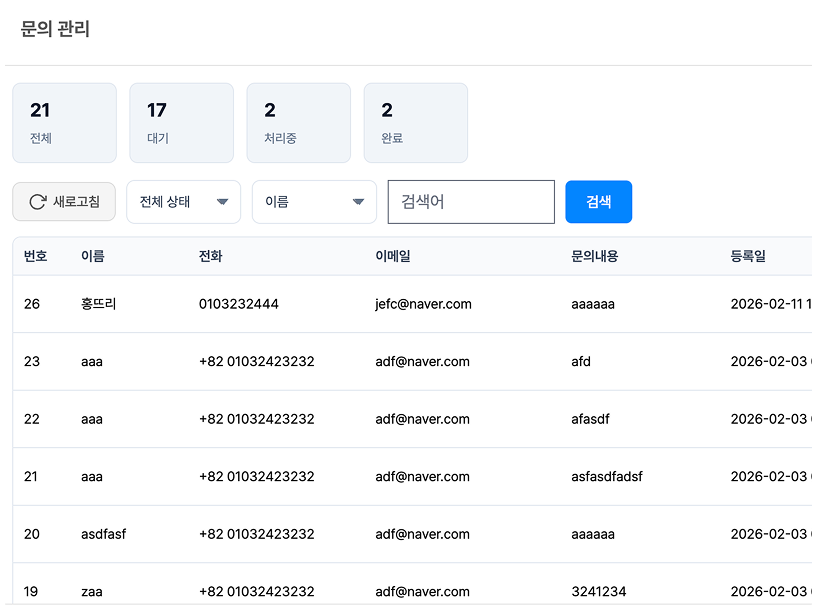
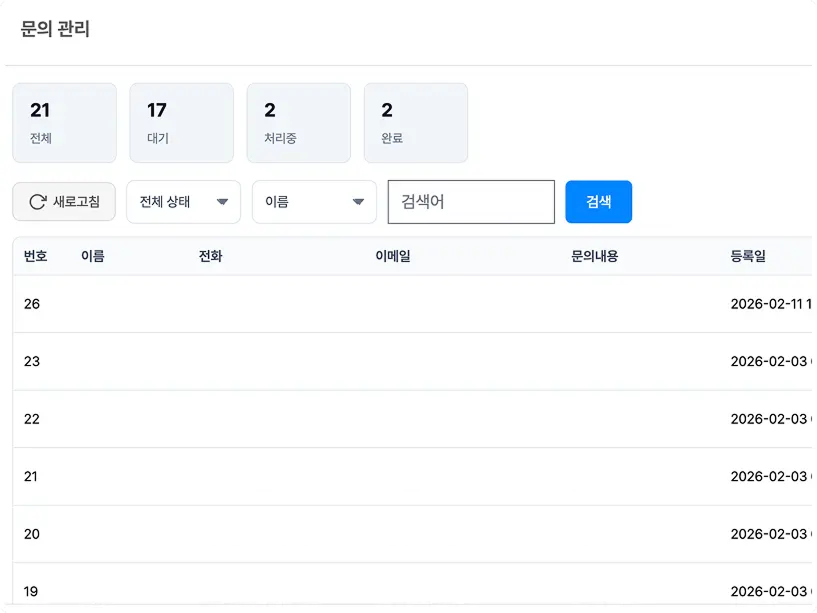
update

diff --git a/src/app/landing/page.js b/src/app/landing/page.js
@@ -930,7 +930,7 @@ export default function LandingPage() {
           <div className="xl:max-w-screen-2xl mx-auto px-6 md:px-8">
             <div className="grid grid-cols-1 md:grid-cols-2 xl:grid-cols-3 md:grid-rows-3 xl:grid-rows-1 gap-4 md:gap-5 mt-16 md:mt-24">
             <div
-              className="benefit-card h-[52rem] md:h-full xl:h-[56.25rem] rounded-xl bg-black bg-gradient-to-b from-transparent to-main-1/30 border border-white/50 md:row-span-2 px-8 py-10 md:px-12 md:py-16 fadeUp overflow-hidden"
+              className="benefit-card h-auto md:h-full xl:h-[56.25rem] rounded-xl bg-black bg-gradient-to-b from-transparent to-main-1/30 border border-white/50 md:row-span-2 px-8 py-10 md:px-12 md:py-16 fadeUp overflow-hidden"
               data-duration="0.8"
               data-delay="0.4"
               data-y="30"
@@ -943,7 +943,7 @@ export default function LandingPage() {
               <p className="text-[18px] md:text-[20px] text-white/70 mt-2.5">
                 아직도 텍스트 수정하나에 비용을 지불하시나요? 관리자 페이지에 제공된 디자인모드 기능으로 코딩 없이 간단하게 수정하세요.
               </p>
-              <div className="w-[80rem] absolute left-8 md:left-12 mt-4">
+              <div className="md:w-[80rem] w-full md:absolute left-8 md:left-12 mt-4">
                 <video
                   src={ASSET("textmodify.mp4")}
                   autoPlay
@@ -987,7 +987,7 @@ export default function LandingPage() {
               </div>
             </div>
             <div
-              className="benefit-card h-[52rem] md:h-[28.0625rem] xl:h-[56.25rem] rounded-xl bg-black bg-gradient-to-b from-transparent to-main-1/30 border border-white/50 md:col-span-2 xl:col-span-1 xl:row-span-1 px-8 py-10 md:px-12 md:py-16 fadeUp overflow-hidden"
+              className="benefit-card h-auto md:h-[28.0625rem] xl:h-[56.25rem] rounded-xl bg-black bg-gradient-to-b from-transparent to-main-1/30 border border-white/50 md:col-span-2 xl:col-span-1 xl:row-span-1 px-8 py-10 md:px-12 md:py-16 fadeUp overflow-hidden"
               data-duration="0.8"
               data-delay="0.5"
               data-y="30"
@@ -998,7 +998,7 @@ export default function LandingPage() {
               <p className="text-[18px] md:text-[20px] text-white/70 mt-2.5">
                 매번 업체에 이미지 바꿔달라고 요청하시나요? 관리자 페이지에 제공된 디자인모드 기능으로 코딩 없이 클릭 몇번으로 관리하세요.
               </p>
-              <div className="w-[37.3125rem] absolute left-8 md:left-12 mt-4">
+              <div className="md:w-[37.3125rem] w-full md:absolute left-8 md:left-12 mt-4">
                 <Image src={ASSET("benefit04.png")} alt="이미지·동영상 삽입" width={597} height={400} className="w-full h-auto" />
               </div>
             </div>
